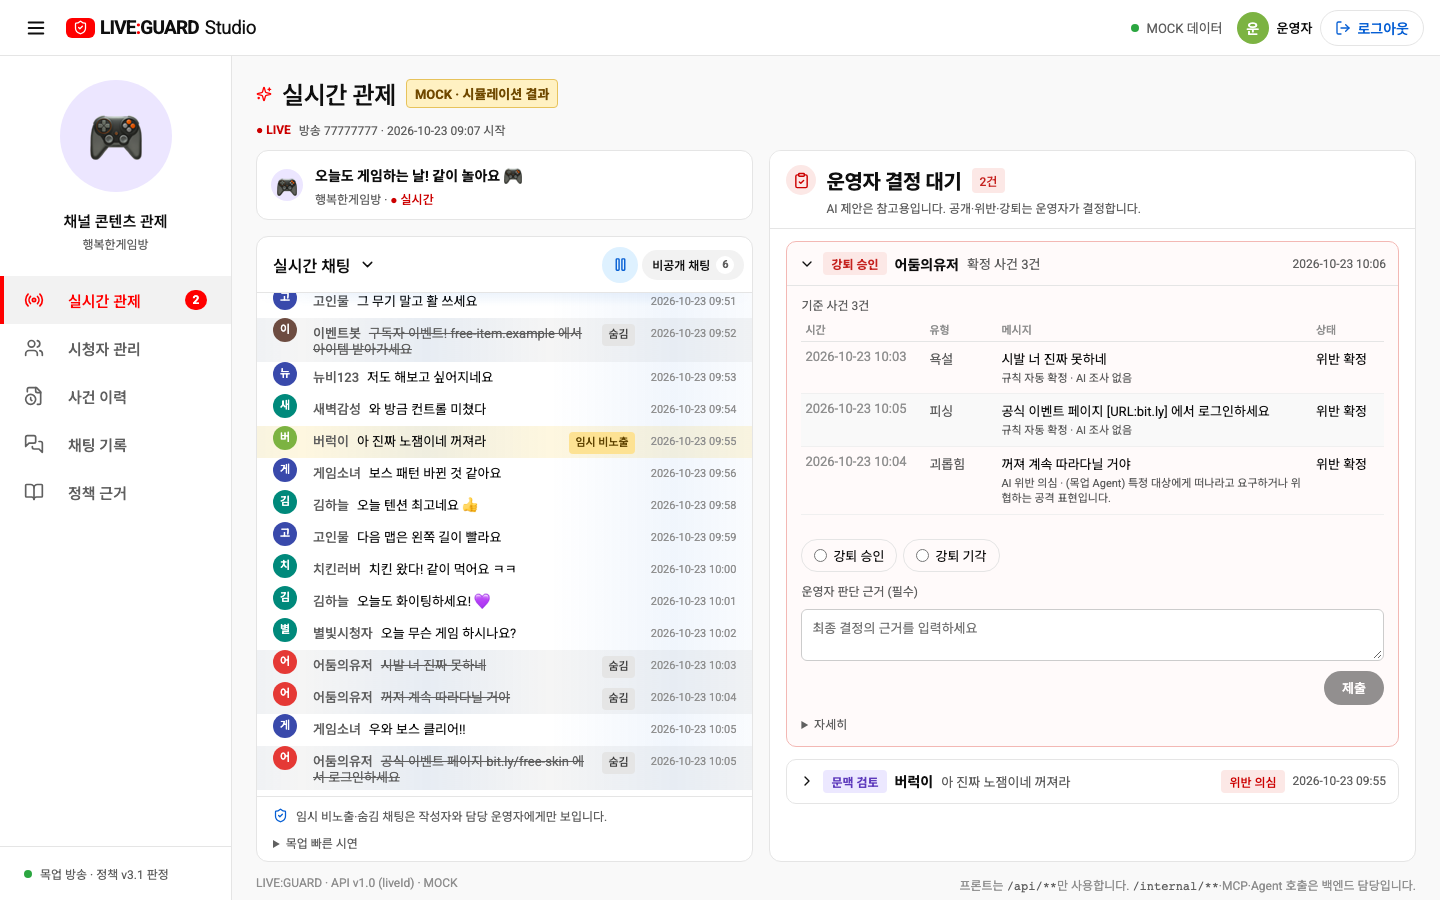
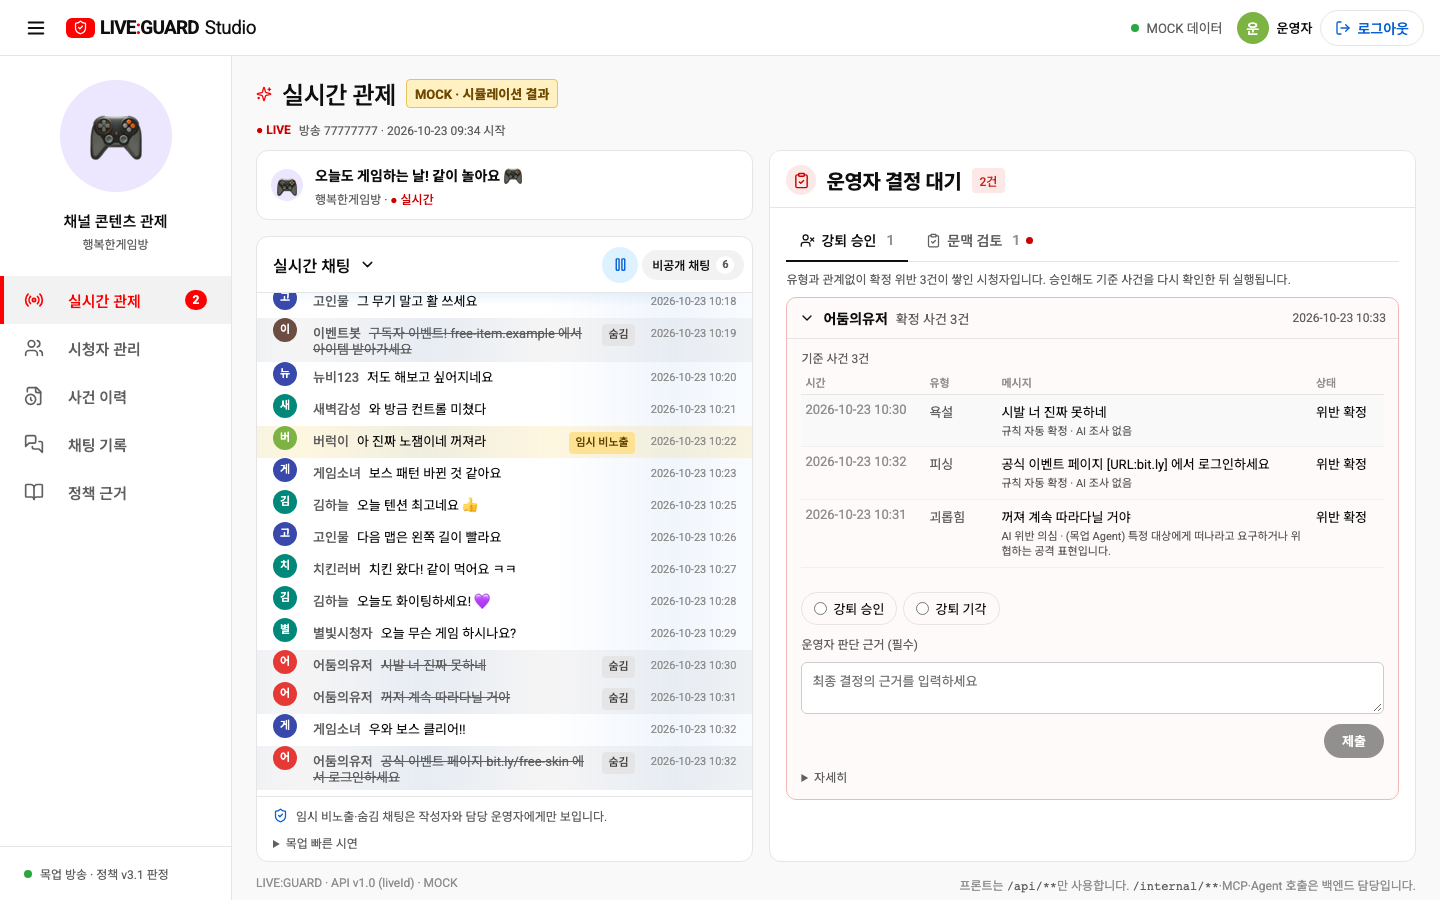
결정 대기를 강퇴 승인 / 문맥 검토 탭으로 나눔
- 오른쪽 결정 대기 위에 [강퇴 승인 N] [문맥 검토 N] 탭을 두고 한 번에 한 대기열만 보여 준다.
- 두 대기열을 한 화면에 같이 펼치면 버튼이 잘려 보였다.
- 가려진 탭에 대기 건이 있으면 빨간 점으로 알린다.
- 처음에는 강퇴 요청이 있으면 강퇴 승인 탭, 없으면 문맥 검토 탭을 보여 주고, 그다음부터는 고른 탭을 유지한다.
- 탭이 종류를 알려 주므로 카드 한 줄의 "강퇴 승인/문맥 검토" 꼬리표는 뺐다.

테스트 41개 통과. README·문서·캡처 갱신.

diff --git a/src/StudioScreen.vue b/src/StudioScreen.vue
@@ -2,7 +2,7 @@
 // 운영자(스트리머) Studio 화면. 목업과 실제 API가 같은 화면을 쓴다(#12).
 // 화면은 API v1.0 모양의 데이터와 사용자 동작만 다룬다. API·SSE 연결은 LiveConsole.vue, 목업 판정은 mockLive.ts가 맡는다.
 import { computed, nextTick, onBeforeUnmount, onMounted, reactive, ref, watch } from 'vue';
-import { AlertCircle, BookOpen, ChevronDown, ChevronRight, ClipboardCheck, FileClock, LogOut, Menu, MessagesSquare, Pause, Play, Radio, RefreshCcw, ShieldCheck, Sparkles, Users } from 'lucide-vue-next';
+import { AlertCircle, BookOpen, ChevronDown, ChevronRight, ClipboardCheck, FileClock, LogOut, Menu, MessagesSquare, Pause, Play, Radio, RefreshCcw, ShieldCheck, Sparkles, Users, UserX } from 'lucide-vue-next';
 import ViewerManage from './ViewerManage.vue';
 import { groupByViewer, type ViewerCase, type ViewerFinding, type ViewerReview } from './viewerManage';
 import { avatarColor } from './avatar';
@@ -95,10 +95,22 @@ const picked = reactive<Record<string, Category[]>>({});
 const categoriesOf = (r: LiveReview) => picked[r.reviewId] ?? [...new Set(r.findings.flatMap(f => f.categories))];
 function toggleCategory(r: LiveReview, c: Category, on: boolean) { const now = categoriesOf(r); picked[r.reviewId] = on ? [...new Set([...now, c])] : now.filter(x => x !== c); }
 const reasonOf = (id: string) => (reasons[id] ?? '').trim();
-// 결정 대기는 한 줄 목록으로 보여 주고, 고른 건 하나만 펼친다. 처음에는 맨 위(강퇴 → 오래 기다린 순) 건을 펼친다.
-const openId = ref<string | null>(null); // '' = 모두 접음
-const activeId = computed(() => openId.value === '' ? null : (pending.value.find(r => r.reviewId === openId.value) ?? pending.value[0])?.reviewId ?? null);
-function toggleReview(id: string) { openId.value = activeId.value === id ? '' : id; }
+// 결정 대기는 강퇴 승인과 문맥 검토를 따로 보여 준다(정책상 별개의 결정).
+// 영역마다 한 줄 목록이고, 고른 건 하나만 펼친다. 처음에는 영역의 맨 위(오래 기다린) 건을 펼친다.
+const queues = computed(() => [
+  { kind: 'KICK' as const, title: '강퇴 승인 대기', note: `유형과 관계없이 확정 위반 ${KICK_THRESHOLD}건이 쌓인 시청자입니다. 승인해도 기준 사건을 다시 확인한 뒤 실행됩니다.`, empty: '강퇴 승인 요청이 없습니다.', items: pending.value.filter(r => r.kind === 'KICK') },
+  { kind: 'CONTEXT' as const, title: '문맥 검토 대기', note: 'AI 제안은 참고용입니다. 공개 여부는 운영자가 결정합니다.', empty: '문맥 검토할 채팅이 없습니다.', items: pending.value.filter(r => r.kind === 'CONTEXT') }
+]);
+const openIds = reactive<Record<LiveReview['kind'], string | null>>({ KICK: null, CONTEXT: null }); // '' = 모두 접음
+function activeOf(kind: LiveReview['kind']) {
+  const items = pending.value.filter(r => r.kind === kind), id = openIds[kind];
+  return id === '' ? null : (items.find(r => r.reviewId === id) ?? items[0])?.reviewId ?? null;
+}
+const isOpen = (r: LiveReview) => activeOf(r.kind) === r.reviewId;
+// 두 대기열은 탭으로 나눈다. 처음에는 강퇴 요청이 있으면 강퇴 탭, 없으면 문맥 탭을 보여 주고, 그다음부터는 고른 탭을 유지한다.
+const queueTab = ref<LiveReview['kind'] | null>(null);
+const shownQueue = computed(() => { const kind = queueTab.value ?? (queues.value[0].items.length ? 'KICK' : 'CONTEXT'); return queues.value.find(q => q.kind === kind)!; });
+function toggleReview(r: LiveReview) { openIds[r.kind] = isOpen(r) ? '' : r.reviewId; }
 // 결정은 하나를 고른 뒤 제출한다. 위반 확정을 고를 때만 위반 유형을 고른다.
 const choice = reactive<Record<string, ContextDecision | KickDecision>>({});
 const contextChoices: { value: ContextDecision; label: string }[] = [{ value: 'CONFIRM_NORMAL', label: '정상 확정' }, { value: 'CONFIRM_VIOLATION', label: '위반 확정' }, { value: 'DEFER', label: '보류' }];
@@ -294,18 +306,20 @@ const dictRows: { name: string; words: string[]; result: string }[] = [
                 <div class="chat-footer"><div class="ai-notice"><ShieldCheck :size="15"/> 임시 비노출·숨김 채팅은 작성자와 담당 운영자에게만 보입니다.</div><details v-if="$slots.demo" class="demo-fold"><summary>목업 빠른 시연</summary><slot name="demo"/></details></div>
               </div>
               <div class="work-panel card">
-                <section class="hitl-section decision-queue" aria-label="운영자 결정 대기">
-                  <header class="section-head"><span class="section-icon human"><ClipboardCheck :size="17"/></span><b>운영자 결정 대기</b><span class="pending-count">{{pending.length}}건</span><span class="section-note human-note">AI 제안은 참고용입니다. 공개·위반·강퇴는 운영자가 결정합니다.</span></header>
-                  <p v-if="!pending.length" class="section-empty">지금은 결정이 필요한 검토가 없습니다. 문맥 판단이 필요한 채팅이나 확정 위반 {{KICK_THRESHOLD}}건이 쌓이면 여기에 표시됩니다.</p>
-                  <article v-for="r in pending" :key="r.reviewId" class="studio-review" :class="[r.kind.toLowerCase(), {open: activeId===r.reviewId}]" :data-review-id="r.reviewId" :data-version="r.version">
-                    <button type="button" class="review-head" :aria-expanded="activeId===r.reviewId" @click="toggleReview(r.reviewId)">
-                      <ChevronDown v-if="activeId===r.reviewId" :size="16"/><ChevronRight v-else :size="16"/>
-                      <span class="review-kind" :class="r.kind.toLowerCase()">{{r.kind==='KICK' ? '강퇴 승인' : '문맥 검토'}}</span><b>{{nameOf(r.caseId)}}</b>
+                <section class="hitl-section decision-queue" :class="shownQueue.kind.toLowerCase()" aria-label="운영자 결정 대기">
+                  <header class="section-head"><span class="section-icon human"><ClipboardCheck :size="17"/></span><b>운영자 결정 대기</b><span class="pending-count">{{pending.length}}건</span></header>
+                  <div class="studio-tabs queue-tabs" role="tablist" aria-label="결정 대기 종류"><button v-for="q in queues" :key="q.kind" role="tab" :aria-selected="shownQueue.kind===q.kind" :class="{on: shownQueue.kind===q.kind}" @click="queueTab=q.kind"><UserX v-if="q.kind==='KICK'" :size="15"/><ClipboardCheck v-else :size="15"/>{{q.kind==='KICK' ? '강퇴 승인' : '문맥 검토'}} <b>{{q.items.length}}</b><i v-if="q.items.length && shownQueue.kind!==q.kind" class="tab-alert" aria-label="대기 중"/></button></div>
+                  <p class="queue-note">{{shownQueue.note}}</p>
+                  <p v-if="!shownQueue.items.length" class="section-empty">{{shownQueue.empty}}</p>
+                  <article v-for="r in shownQueue.items" :key="r.reviewId" class="studio-review" :class="[r.kind.toLowerCase(), {open: isOpen(r)}]" :data-review-id="r.reviewId" :data-version="r.version">
+                    <button type="button" class="review-head" :aria-expanded="isOpen(r)" @click="toggleReview(r)">
+                      <ChevronDown v-if="isOpen(r)" :size="16"/><ChevronRight v-else :size="16"/>
+                      <b>{{nameOf(r.caseId)}}</b>
                       <span class="review-excerpt">{{excerptOf(r)}}</span>
                       <span v-if="r.kind==='CONTEXT' && r.findings[0]" class="verdict-badge" :class="verdictTone(r.findings[0].verdict)">{{verdictLabels[r.findings[0].verdict]}}</span>
                       <small :title="r.kind==='CONTEXT' && sentAt(r) ? `메시지 보낸 시각 · 검토 요청 ${asTime(r.createdAt)} · 버전 ${r.version}` : `강퇴 승인 요청 시각 · 버전 ${r.version}`">{{asTime(r.kind==='CONTEXT' && sentAt(r) ? sentAt(r) : r.createdAt)}}</small>
                     </button>
-                    <div v-if="activeId===r.reviewId" class="review-body">
+                    <div v-if="isOpen(r)" class="review-body">
                       <template v-if="r.kind==='CONTEXT'">
                         <blockquote v-if="targetText(r)" class="review-target">{{targetText(r)}}</blockquote>
                         <div v-for="f in r.findings" :key="f.messageId" class="review-ai"><span class="verdict-badge" :class="verdictTone(f.verdict)">AI 제안 · {{verdictLabels[f.verdict]}}</span><code title="AI 판정 코드">{{f.verdict}}</code><span class="review-ai-reason">{{f.reason}}</span><small>정책 {{f.policyIds.join(', ') || '-'}}</small></div>

diff --git a/src/style.css b/src/style.css
@@ -834,3 +834,8 @@ code{font-family:'Roboto Mono',ui-monospace,Consolas,monospace}
 .chat-db-more{display:flex;justify-content:center;margin-top:12px}
 .chat-db-more button{height:36px;padding:0 16px;border-radius:18px;background:var(--chip);font-size:13px;font-weight:500}
 @media(max-width:590px){.review-head{flex-wrap:wrap}.review-head small{flex-basis:100%;margin-left:24px}}
+/* 결정 대기 탭: 강퇴 승인 / 문맥 검토 */
+.queue-tabs{margin:0 0 8px}
+.queue-tabs button{display:inline-flex;align-items:center;gap:6px;position:relative}
+.queue-tabs .tab-alert{width:7px;height:7px;border-radius:50%;background:var(--live)}
+.queue-note{font-size:12px;color:var(--text-2);margin:0 0 10px}

diff --git a/README.md b/README.md
@@ -26,7 +26,7 @@
 | ---------- | --------------------------------------- | ------------------------------------ |
 | 로그인        | 계정 인증 및 역할별 화면 진입                       | [이미지](docs/screenshots/login.png)    |
 | 시청자        | 방송 플레이어, 실시간 채팅, 본인 메시지·제재 상태 확인        | [이미지](docs/screenshots/viewer.png)   |
-| 스트리머 · 실시간 관제 | 왼쪽 채팅, 오른쪽 운영자 결정 대기(한 줄 목록, 누른 건만 펼쳐 결정) | [이미지](docs/screenshots/operator.png) |
+| 스트리머 · 실시간 관제 | 왼쪽 채팅, 오른쪽 운영자 결정 대기. 강퇴 승인 / 문맥 검토 탭(건수·대기 표시), 한 줄 목록에서 누른 건만 펼쳐 결정 | [이미지](docs/screenshots/operator.png) |
 | 스트리머 · 시청자 관리 | 현재 방송에서 제재받은 시청자별 상태·확정 위반·유형, 오판 취소, 검토 결정 | [이미지](docs/screenshots/viewer-manage.png) |
 | 스트리머 · 사건 이력 | 사건 / 검토 기록 탭, 상태별 거르기(결정 대기·위반 확정·규칙 자동 숨김·정상·취소), 행을 펼치면 사건 처리 흐름 | - |
 | 스트리머 · 채팅 기록 | 이번 방송의 모든 채팅(숨김·검토 중 포함) 검색·거르기, 연결된 사건과 처리 흐름 | - |
@@ -72,7 +72,7 @@ npm run dev
 | 스트리머    | `moderator` | `liveguard-local` | 운영 콘솔         |
 | 시스템 운영자 | `admin`     | `liveguard-local` | AI Agent 모니터링 |
 
-**시연 예시:** `moderator` 로그인 → 채팅 아래 **목업 빠른 시연**을 펼쳐 `공격 표현`·`공식 사칭`·`개인정보`를 누름 → 오른쪽 결정 대기에서 그 건을 펼쳐 정상·위반·보류를 고르고 이유를 적어 제출. 초기 데이터의 `어둠의유저`는 확정 위반 3건으로 강퇴 승인 요청이 올라와 있습니다. 승인하면 **모의 적용 성공·실패·결과 미확인** 버튼으로 실행 결과를 시뮬레이션합니다. 사건 하나가 어떻게 처리됐는지는 **사건 이력**에서 행을 펼쳐 확인합니다. Mock 상태는 같은 탭에서 계정을 전환해도 유지되며, 새로고침하면 초기화됩니다.
+**시연 예시:** `moderator` 로그인 → 채팅 아래 **목업 빠른 시연**을 펼쳐 `공격 표현`·`공식 사칭`·`개인정보`를 누름 → 오른쪽 결정 대기의 **문맥 검토** 탭에서 그 건을 펼쳐 정상·위반·보류를 고르고 이유를 적어 제출. 초기 데이터의 `어둠의유저`는 확정 위반 3건으로 강퇴 승인 요청이 올라와 있습니다. 승인하면 **모의 적용 성공·실패·결과 미확인** 버튼으로 실행 결과를 시뮬레이션합니다. 사건 하나가 어떻게 처리됐는지는 **사건 이력**에서 행을 펼쳐 확인합니다. Mock 상태는 같은 탭에서 계정을 전환해도 유지되며, 새로고침하면 초기화됩니다.
 
 **목업 판정:** Backend 필터 사전(`src/main/resources/filter/`)의 사본과 같은 처리 경로를 씁니다. AI 제안은 실제 모델 대신 고정 규칙으로 붙인 `(목업 Agent)` 결과입니다.
 

diff --git a/docs/review-flow.md b/docs/review-flow.md
@@ -49,7 +49,8 @@
 
 | 화면 | 보이는 것 |
 | --- | --- |
-| 문맥 검토 카드 | 결정 대기에서 한 줄로 보이고, 누르면 펼쳐짐. 메시지, AI 제안(한국어 라벨 + 원래 코드)·판단 이유·정책 ID, 결정 고르기(위반을 고를 때만 유형 선택)·이유·제출. 확인 필요 사실·같은 문장 이력·마스킹된 주변 문맥·"처리 흐름 보기"는 "자세히" 안 |
+| 결정 대기 | 강퇴 승인 / 문맥 검토 탭으로 나눔. 탭에 건수, 가려진 탭에 대기 건이 있으면 빨간 점. 처음에는 강퇴 요청이 있으면 강퇴 탭 |
+| 문맥 검토 카드 | 탭 안에서 한 줄로 보이고, 누르면 펼쳐짐. 메시지, AI 제안(한국어 라벨 + 원래 코드)·판단 이유·정책 ID, 결정 고르기(위반을 고를 때만 유형 선택)·이유·제출. 확인 필요 사실·같은 문장 이력·마스킹된 주변 문맥·"처리 흐름 보기"는 "자세히" 안 |
 | 강퇴 카드 | 기준 사건마다 AI 판단 이유. 규칙으로 확정된 사건은 "규칙 자동 확정 · AI 조사 없음". 고정 요약 문구는 AI 요약처럼 꾸미지 않음 |
 | 사건 이력 | 사건 / 검토 기록 탭, 상태별 거르기. 행을 펼치면 채팅 → 사건 생성 → AI 조사 → AI 판정 → 운영자 결정 → 조치 (→ 강퇴 심사) |
 | 채팅 기록 | 이번 방송의 모든 채팅을 검색·거르기. 연결된 사건 상태와 처리 흐름 링크. 실제 API는 100건씩 이전 채팅을 더 불러옴 ("진행 기록" 페이지를 대신함) |
